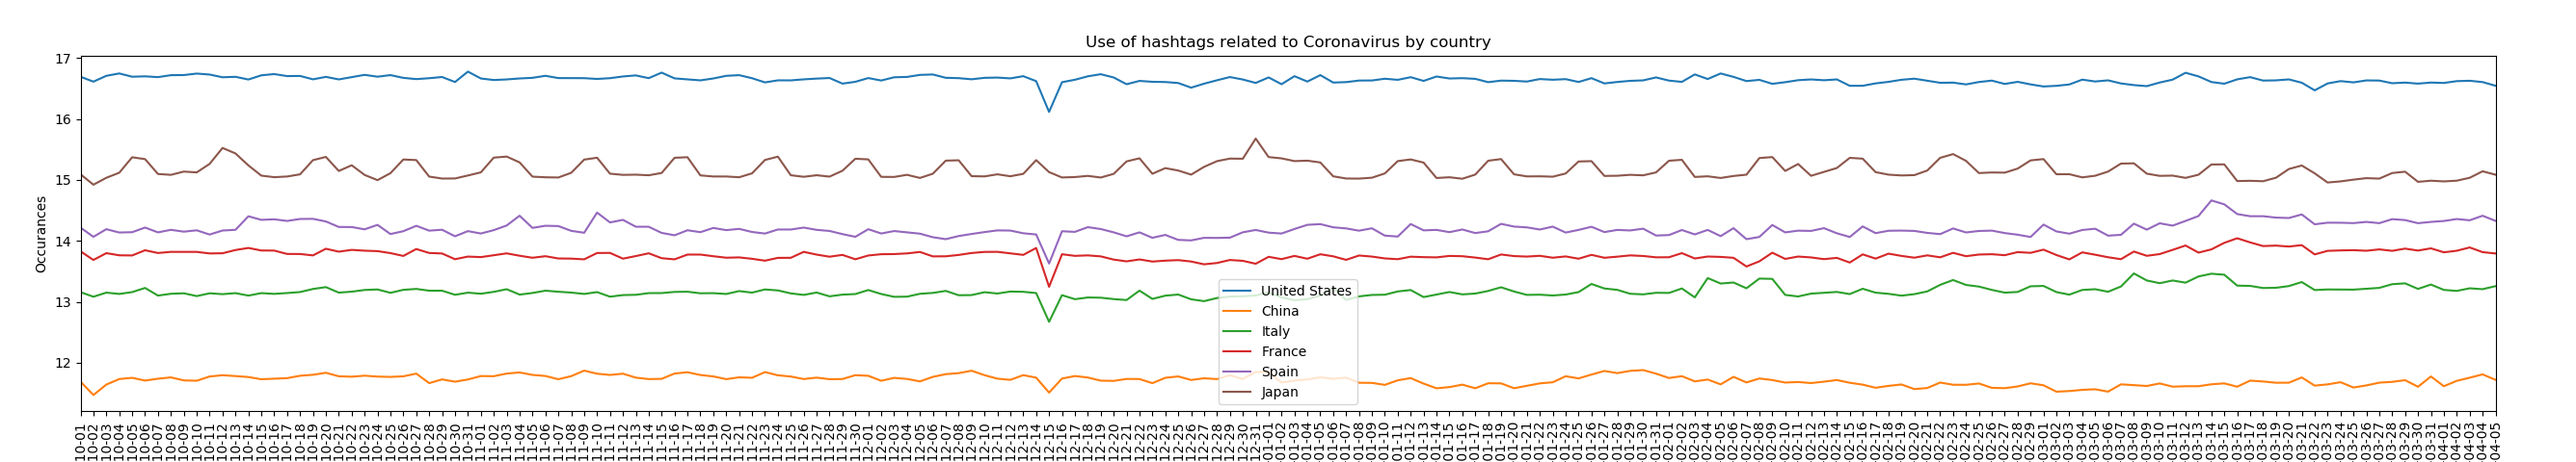
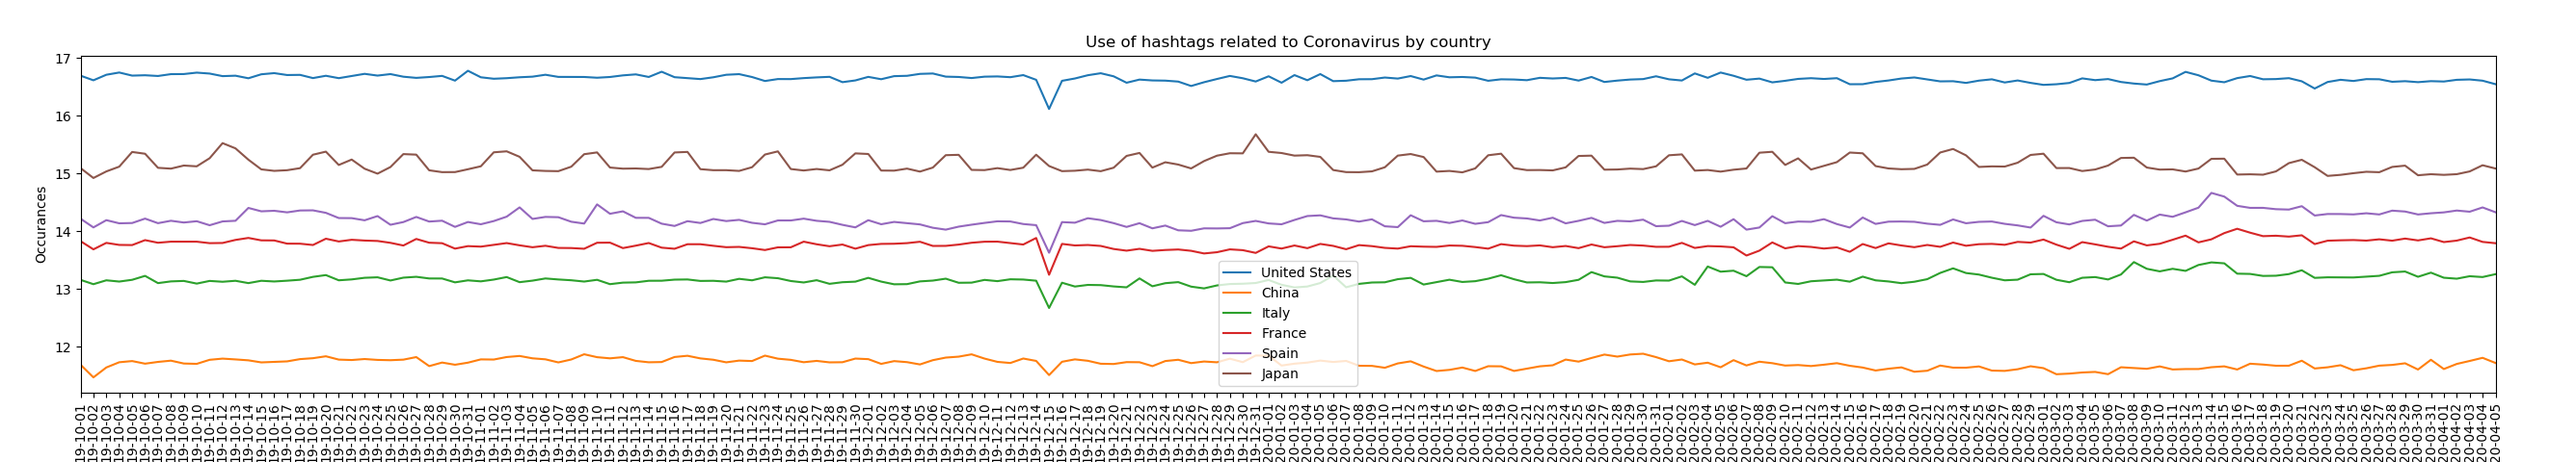
legend and size

diff --git a/src/graphy.py b/src/graphy.py
@@ -54,7 +54,6 @@ plt.plot(JP, label = 'Japan')
 plt.title("Use of hashtags related to Coronavirus by country")
 plt.xlabel("Dates")
 plt.ylabel("Occurances")
-plt.legend()
 
 z = np.arange(len(dates))
 N=len(dates)
@@ -70,5 +69,8 @@ margin = m/plt.gcf().get_size_inches()[0]
 
 plt.gcf().subplots_adjust(left=margin, right=1.-margin)
 plt.gcf().set_size_inches(s, plt.gcf().get_size_inches()[1])
+plt.legend()
+
+plt.gcf().subplots_adjust(bottom=0.15)
 
 plt.savefig('graph.png')
